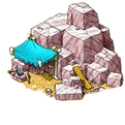
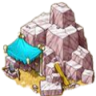
feat 建築物伐木場、軍營團片置換

diff --git a/src/company/gameobj/background/component/BuildingOption.java b/src/company/gameobj/background/component/BuildingOption.java
@@ -1,10 +1,7 @@
 package company.gameobj.background.component;
 
-import company.Global;
 import company.controllers.SceneController;
 import company.gameobj.background.HintDialog;
-import company.gameobj.buildings.Base;
-import company.gameobj.buildings.Building;
 import company.gametest9th.utils.CommandSolver;
 import company.gametest9th.utils.GameKernel;
 import company.gametest9th.utils.Path;
@@ -19,7 +16,7 @@ public class BuildingOption implements GameKernel.GameInterface, CommandSolver.M
 
     private BuildingButton[] buildingButtons ;
 
-    private boolean canUseButton;
+    private boolean isMouseOnButtons;
 
     Image[] imgs;
 
@@ -32,27 +29,17 @@ public class BuildingOption implements GameKernel.GameInterface, CommandSolver.M
 
         buildingButtons= new BuildingButton[BuildingTypeNum];//建立所有建築物按鈕
 
-        //將以下結合BuildingSystem
         imgs = new Image[BuildingTypeNum];
-        imgs[0] = SceneController.getInstance().imageController().tryGetImage(new Path().img().building().House());
-        imgs[1] = SceneController.getInstance().imageController().tryGetImage(new Path().img().building().Lab());
-        imgs[2] = SceneController.getInstance().imageController().tryGetImage(new Path().img().building().SawMill());
-        imgs[3] = SceneController.getInstance().imageController().tryGetImage(new Path().img().building().SteelMill());
-        imgs[4] = SceneController.getInstance().imageController().tryGetImage(new Path().img().building().Barracks());
-        imgs[5] = SceneController.getInstance().imageController().tryGetImage(new Path().img().building().GasMill());
-        imgs[6] = SceneController.getInstance().imageController().tryGetImage(new Path().img().building().Arsenal());
-        imgs[7] = SceneController.getInstance().imageController().tryGetImage(new Path().img().building().AirplanemIll());
-
-
-        for (int i = 0; i < Global.BuildingTypeNum; i++) {
-
-        }
 
         //新增按鈕元件、給予按鈕圖片
         for (int i = 0; i < BuildingTypeNum; i++) {
-            buildingButtons[i] = new BuildingButton(BUILDING_OPTION_X +DIV_GAP_X, BUILDING_OPTION_Y + DIV_GAP_Y + (FOUNDATION_HEIGHT + OPTION_GAP_Y) * i);
+            type = BuildingType.getBuildingTypeByInt(i+1);
+            int tmpId=type.instance().getId();
+            String tmpPath=type.instance().getImgPath();
+
+            buildingButtons[i] = new BuildingButton(BUILDING_OPTION_X +DIV_GAP_X, BUILDING_OPTION_Y + DIV_GAP_Y + (FOUNDATION_HEIGHT + OPTION_GAP_Y) * i,tmpId);
+            imgs[tmpId-1]=SceneController.getInstance().imageController().tryGetImage(tmpPath);
             buildingButtons[i].setImg(imgs[i]);
-            buildingButtons[i].setId(i+1);
         }
 
         //新增地基圖片
@@ -66,43 +53,43 @@ public class BuildingOption implements GameKernel.GameInterface, CommandSolver.M
             //畫基地
             g.drawImage(foundation_img, BUILDING_OPTION_X, BUILDING_OPTION_Y  + (FOUNDATION_HEIGHT + OPTION_GAP_Y) * i
                     , FOUNDATION_WIDTH, FOUNDATION_HEIGHT, null);
-
             //畫按鈕
             buildingButtons[i].paint(g);
         }
-
     }
 
 
+    //是否所有Button都false
+    public boolean checkMouseOnButtons(){
+        isMouseOnButtons =false;
+        for (int i=0;i<BuildingTypeNum;i++){
+            isMouseOnButtons |=buildingButtons[i].isMoveOnButton();
+        }
+        return isMouseOnButtons;
+    }
+
     @Override
     public void update() {
+
 
     }
 
 
     @Override
     public void mouseTrig(MouseEvent e, CommandSolver.MouseState state, long trigTime) {
-        canUseButton=false;
-        //是否所有都false
-        for (int i=0;i<BuildingTypeNum;i++){
-            canUseButton=canUseButton|buildingButtons[i].isCanUseButton();
-        }
-        if(canUseButton){
+
+        if(checkMouseOnButtons()){
             HintDialog.instance().setHintMessage("");
         }
         //呼叫所有建築物按鈕
+
         for (int i = 0; i < BuildingTypeNum; i++) {
 
             //得到建築物Id
             type = BuildingType.getBuildingTypeByInt(buildingButtons[i].getId());
             //改變按鈕的內容
-            buildingButtons[i].bni=new BuildingButton.ButtonInterface() {
-                @Override
-                public int entered(BuildingButton bb) {
-                    //System.out.println(type.instance().getName());
-                    HintDialog.instance().setHintMessage(type.instance().getName());
-                    return 0;
-                }
+            buildingButtons[i].bni=(bb)-> {
+                HintDialog.instance().setHintMessage(type.instance().getName());
             };
 
 

diff --git a/src/company/gameobj/background/component/BuildingButton.java b/src/company/gameobj/background/component/BuildingButton.java
@@ -2,7 +2,6 @@ package company.gameobj.background.component;
 
 import company.Global;
 import company.gameobj.GameObject;
-import company.gameobj.background.HintDialog;
 import company.gametest9th.utils.CommandSolver;
 import static company.gameobj.BuildingController.*;
 import java.awt.*;
@@ -10,7 +9,7 @@ import java.awt.event.MouseEvent;
 
 public class BuildingButton extends GameObject implements CommandSolver.MouseCommandListener {
     public interface ButtonInterface{
-        public int entered(BuildingButton bb);
+        public void entered(BuildingButton bb);
     }
 
     public ButtonInterface bni;
@@ -29,16 +28,16 @@ public class BuildingButton extends GameObject implements CommandSolver.MouseCom
     //上一次座標Y
     private int previousY;
     //按鈕id
-    private int id;
-    private boolean canUseButton;
+    private final int id;
+    //此按鈕可否使用
+    private boolean isMoveOnButton;
 
-    //當前buttonId
-    public static int buttonId;
-    public BuildingButton(int x, int y) {
+    public BuildingButton(int x, int y,int id) {
         super(x, y, Global.BUILDING_WIDTH, Global.BUILDING_HEIGHT);
+        this.id=id;
         ox=x;
         oy=y;
-        canUseButton=false;
+        isMoveOnButton =false;
         canBuild=true;//Fixme_待做
         //img= SceneController.getInstance().imageController().tryGetImage(new Path().img().building().Arsenal());
     }
@@ -82,8 +81,8 @@ public class BuildingButton extends GameObject implements CommandSolver.MouseCom
         setPainterStartFromTopLeft(ox,oy);
     }
     //可否使用button
-    public boolean isCanUseButton(){
-        return canUseButton;
+    public boolean isMoveOnButton(){
+        return isMoveOnButton;
     }
 
     @Override
@@ -100,17 +99,16 @@ public class BuildingButton extends GameObject implements CommandSolver.MouseCom
                     if(bni!=null) {
                         changeButtonInterface();
                     }
-                    canUseButton=true;
+                    isMoveOnButton =true;
                     //System.out.println("在物件上面");
                 }else{
-                    canUseButton=false;
+                    isMoveOnButton =false;
                 }
 
                 originPosition();
                 break;
             }
             case CLICKED:{
-                buttonId=id;
                 break;
             }
             case DRAGGED:{
@@ -120,8 +118,6 @@ public class BuildingButton extends GameObject implements CommandSolver.MouseCom
                 break;
             }
             case RELEASED:{
-                buttonId=0;
-
                 if(canBuild){
                     build(e.getX(),e.getY());
                 }
@@ -134,9 +130,6 @@ public class BuildingButton extends GameObject implements CommandSolver.MouseCom
         previousY =e.getY();
     }
 
-    public void setId(int id) {
-        this.id=id;
-    }
 
     public int getId(){
         return this.id;

diff --git a/src/company/gametest9th/utils/Path.java b/src/company/gametest9th/utils/Path.java
@@ -155,29 +155,29 @@ public class Path {
 
             }
 
-            public String House() { return this + "/96x96_house.png";}
+            public String House() { return this + "/house.png";}
 
-            public String Lab() { return this + "/96x96_lab.png";}
+            public String Lab() { return this + "/lab.png";}
 
-            public String SawMill() { return this + "/96x96_sawmill.png";}
+            public String SawMill() { return this + "/sawmill.png";}
 
-            public String SteelMill() { return this + "/96x96_steelmill.png";};
+            public String SteelMill() { return this + "/steelmill.png";};
 
-            public String Barracks() { return this + "/96x96_barracks.png";};
-
-
+            public String Barracks() { return this + "/barracks.png";};
 
 
 
 
 
-            public String GasMill() { return this + "/96x96_gasmill.png";}
 
-            public String AirplanemIll() { return this + "/96x96_airplanemIll.png";}
+
+            public String GasMill() { return this + "/gasmill.png";}
+
+            public String AirplanemIll() { return this + "/airplanemIll.png";}
 
             public String Base() { return this + "/Base.png";};
 
-            public String Arsenal(){ return this + "/96x96_arsenal.png";}
+            public String Arsenal(){ return this + "/arsenal.png";}
         }
 
 

diff --git a/src/company/scene/MainScene.java b/src/company/scene/MainScene.java
@@ -197,7 +197,7 @@ public class MainScene extends Scene implements CommandSolver.KeyListener {
 
 
 //建築物相關測試
-        type = BuildingType.getBuildingTypeByInt(BuildingButton.buttonId);
+        type = BuildingType.getBuildingTypeByInt(1);//BuildingOption s
         //建造成功與否
         if(type!= null){
             if (city.getBuildingNum() != city.MAX_CAN_BUILD && city.canBuildBuilding(type)) {
@@ -220,7 +220,6 @@ public class MainScene extends Scene implements CommandSolver.KeyListener {
         }
         //提示框
         //hintDialog.setHintMessage(message);
-
 
 
 

diff --git a/src/company/gameobj/buildings/Building.java b/src/company/gameobj/buildings/Building.java
@@ -495,4 +495,8 @@ public abstract class Building extends GameObject implements CommandSolver.Mouse
     public void mouseTrig(MouseEvent e, CommandSolver.MouseState state, long trigTime) {
 
     }
+
+    public String getImgPath() {
+        return imgPath;
+    }
 }
